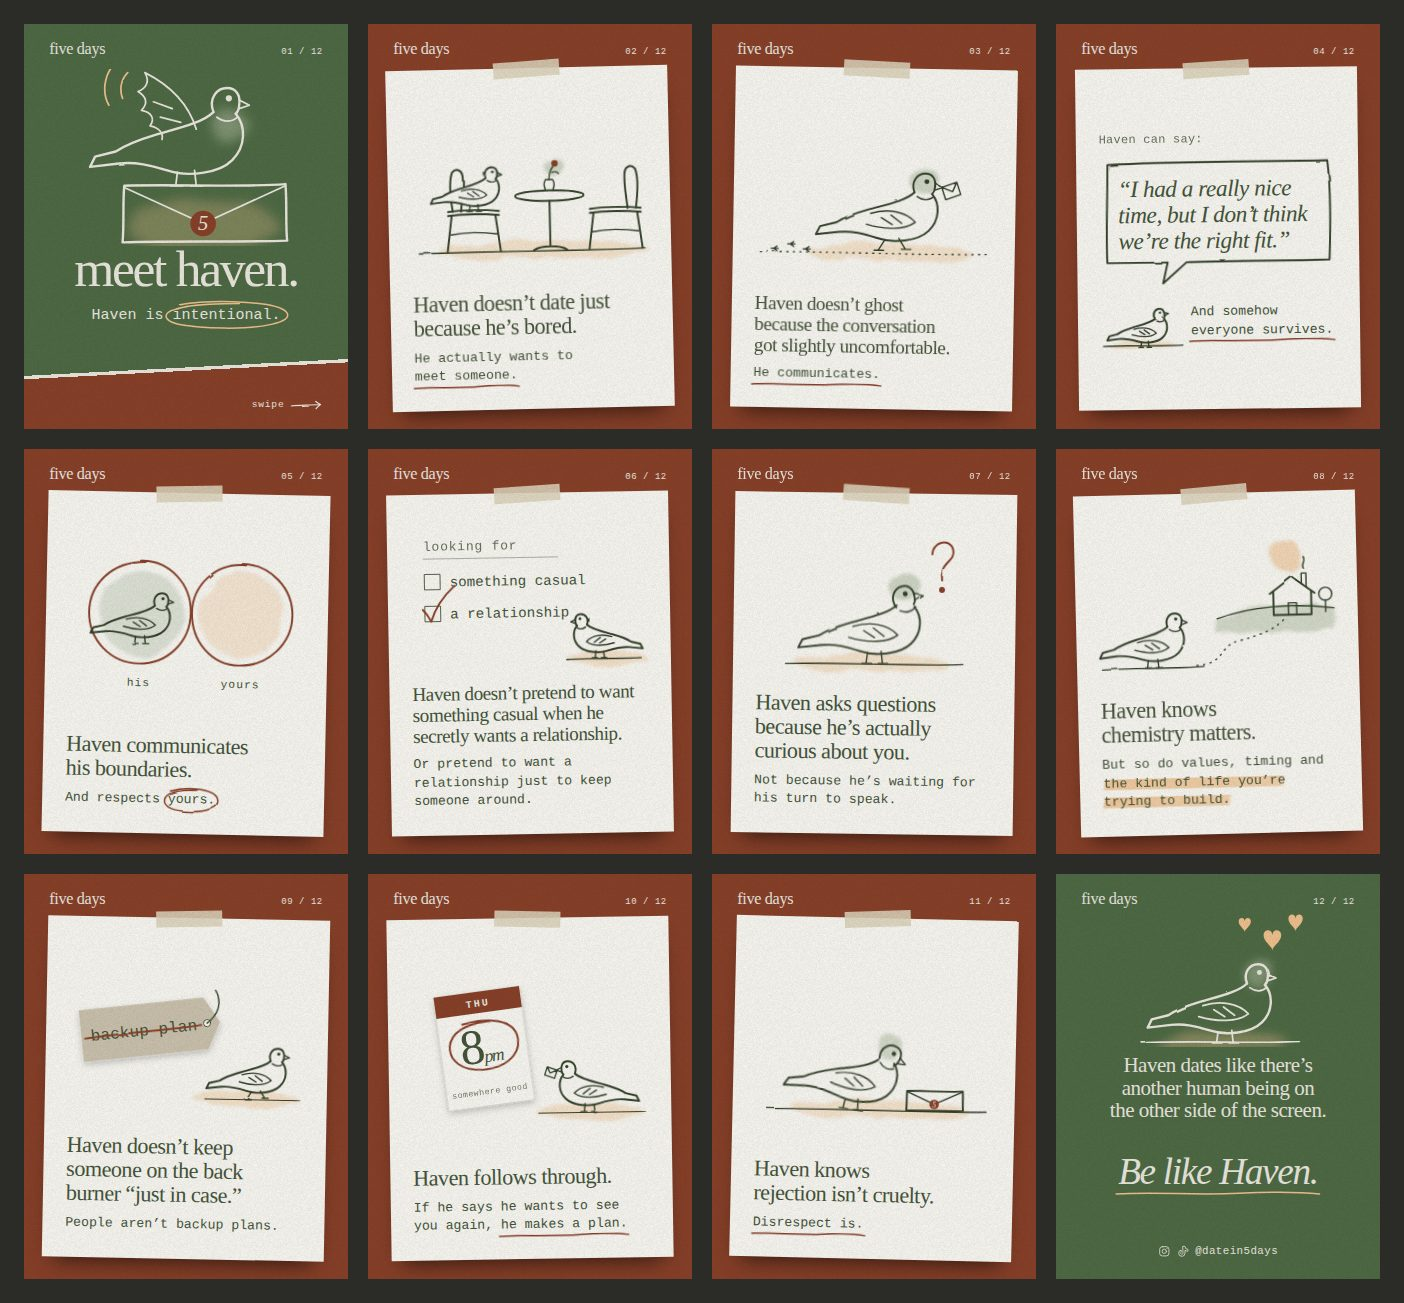
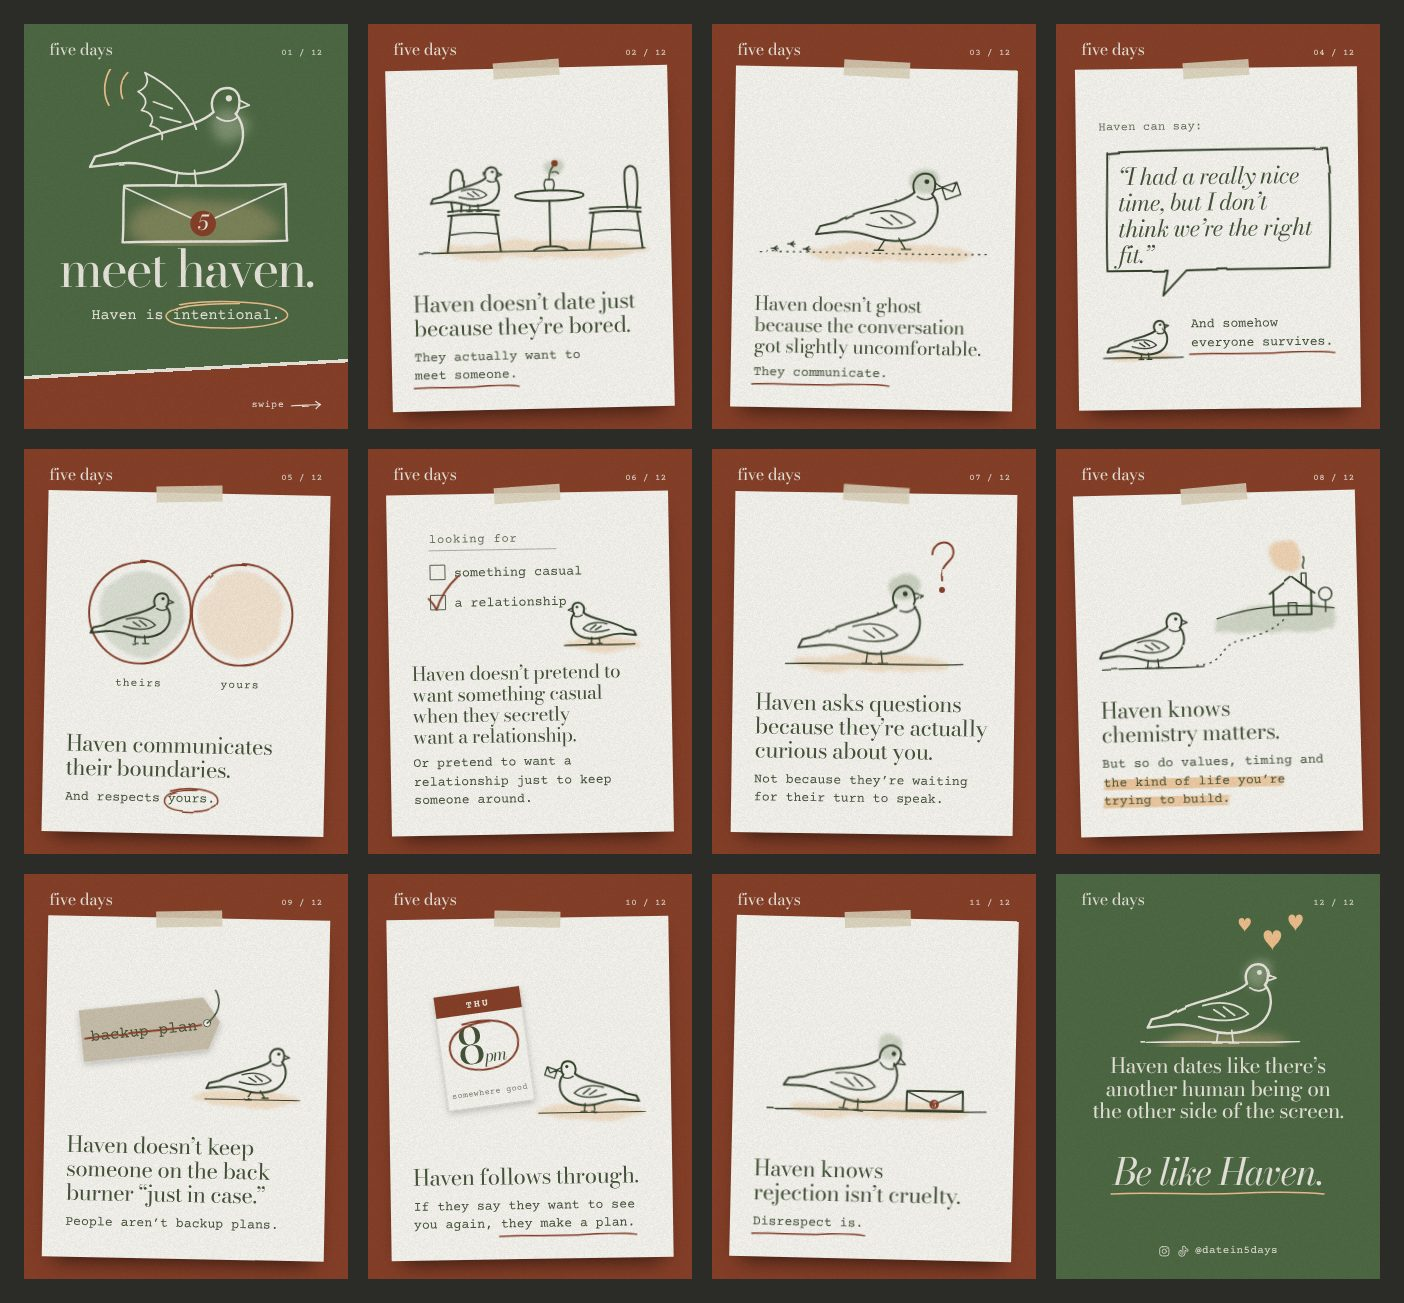
meet haven: Haven is they/them
The carousel predates the rule in context.md §5 and called Haven "he" on seven
slides and in the caption. Same lines, same layout; the circle on 05 now reads
"theirs".

Claude-Session: https://claude.ai/code/session_01KmYfbpcey8nyaXtGwoPifE

diff --git a/share/posts/meet-haven/post.html b/share/posts/meet-haven/post.html
@@ -85,8 +85,8 @@
 <circle cx="244" cy="80" r="5.5" style="fill:var(--clay);stroke:none"/>
 <g class="hv fill" data-o="" transform="translate(15 64.4) scale(1.3)"></g>
 </svg>
-<p class="say">Haven doesn’t date just because he’s bored.</p>
-<p class="so">He actually wants to <span class="mk u">meet someone.<svg viewBox="0 0 200 10" preserveAspectRatio="none"><path filter="url(#pen)" d="M2 6C40 3 80 8 120 5S180 3 198 6"/></svg></span></p>
+<p class="say">Haven doesn’t date just because they’re bored.</p>
+<p class="so">They actually want to <span class="mk u">meet someone.<svg viewBox="0 0 200 10" preserveAspectRatio="none"><path filter="url(#pen)" d="M2 6C40 3 80 8 120 5S180 3 198 6"/></svg></span></p>
 </div>
 </section>
 
@@ -103,7 +103,7 @@
 <g class="hv" data-o="walk letter" transform="translate(69 56.4) scale(2.3)"></g>
 </svg>
 <p class="say s">Haven doesn’t ghost because the conversation got slightly uncomfortable.</p>
-<p class="so"><span class="mk u">He communicates.<svg viewBox="0 0 200 10" preserveAspectRatio="none"><path filter="url(#pen)" d="M2 6C40 3 80 8 120 5S180 3 198 6"/></svg></span></p>
+<p class="so"><span class="mk u">They communicate.<svg viewBox="0 0 200 10" preserveAspectRatio="none"><path filter="url(#pen)" d="M2 6C40 3 80 8 120 5S180 3 198 6"/></svg></span></p>
 </div>
 </section>
 
@@ -123,7 +123,7 @@
 </div>
 </section>
 
-<!-- 05: his circle, and yours -->
+<!-- 05: their circle, and yours -->
 <section class="slide">
 <div class="top"><span class="brand">five days</span><span>05 / 12</span></div>
 <div class="card" style="--r:1.2deg;--t:-2deg">
@@ -134,10 +134,10 @@
 <path class="clay" d="M292 22C340 22 378 62 378 108C378 156 338 194 290 194C242 194 208 154 208 106C208 60 246 20 298 24"/>
 </g>
 <g class="hv" data-o="" transform="translate(16 52) scale(1.5)"></g>
-<text x="120" y="232" text-anchor="middle" style="font-size:19px;letter-spacing:.1em">his</text>
+<text x="120" y="232" text-anchor="middle" style="font-size:19px;letter-spacing:.1em">theirs</text>
 <text x="292" y="232" text-anchor="middle" style="font-size:19px;letter-spacing:.1em">yours</text>
 </svg>
-<p class="say">Haven communicates his boundaries.</p>
+<p class="say">Haven communicates their boundaries.</p>
 <p class="so">And respects <span class="mk o">yours.<svg viewBox="0 0 200 60" preserveAspectRatio="none"><path filter="url(#pen)" d="M26 8C80-4 180 0 194 24C206 46 150 58 96 57C40 56 2 48 5 30C8 14 50 5 120 5"/></svg></span></p>
 </div>
 </section>
@@ -157,7 +157,7 @@
 <g filter="url(#pen)"><path class="clay" d="M20 140C25 145 30 152 34 160C40 140 54 118 74 100"/><path class="thin" d="M262 228C300 226 340 229 388 227"/></g>
 <g class="hv" data-o="" transform="translate(409 132) scale(-1.3 1.3)"></g>
 </svg>
-<p class="say s">Haven doesn’t pretend to want something casual when he secretly wants a relationship.</p>
+<p class="say s">Haven doesn’t pretend to want something casual when they secretly want a relationship.</p>
 <p class="so">Or pretend to want a relationship just to keep someone around.</p>
 </div>
 </section>
@@ -175,8 +175,8 @@
 <circle cx="313" cy="100" r="5" style="fill:var(--clay);stroke:none"/>
 <g class="hv" data-o="tilt" transform="translate(39 60.4) scale(2.3)"></g>
 </svg>
-<p class="say">Haven asks questions because he’s actually curious about you.</p>
-<p class="so">Not because he’s waiting for his turn to speak.</p>
+<p class="say">Haven asks questions because they’re actually curious about you.</p>
+<p class="so">Not because they’re waiting for their turn to speak.</p>
 </div>
 </section>
 
@@ -238,7 +238,7 @@
 <g class="hv" data-o="letter" transform="translate(405 118) scale(-1.5 1.5)"></g>
 </svg>
 <p class="say">Haven follows through.</p>
-<p class="so">If he says he wants to see you again, <span class="mk u">he makes a plan.<svg viewBox="0 0 200 10" preserveAspectRatio="none"><path filter="url(#pen)" d="M2 6C40 3 80 8 120 5S180 3 198 6"/></svg></span></p>
+<p class="so">If they say they want to see you again, <span class="mk u">they make a plan.<svg viewBox="0 0 200 10" preserveAspectRatio="none"><path filter="url(#pen)" d="M2 6C40 3 80 8 120 5S180 3 198 6"/></svg></span></p>
 </div>
 </section>
 
